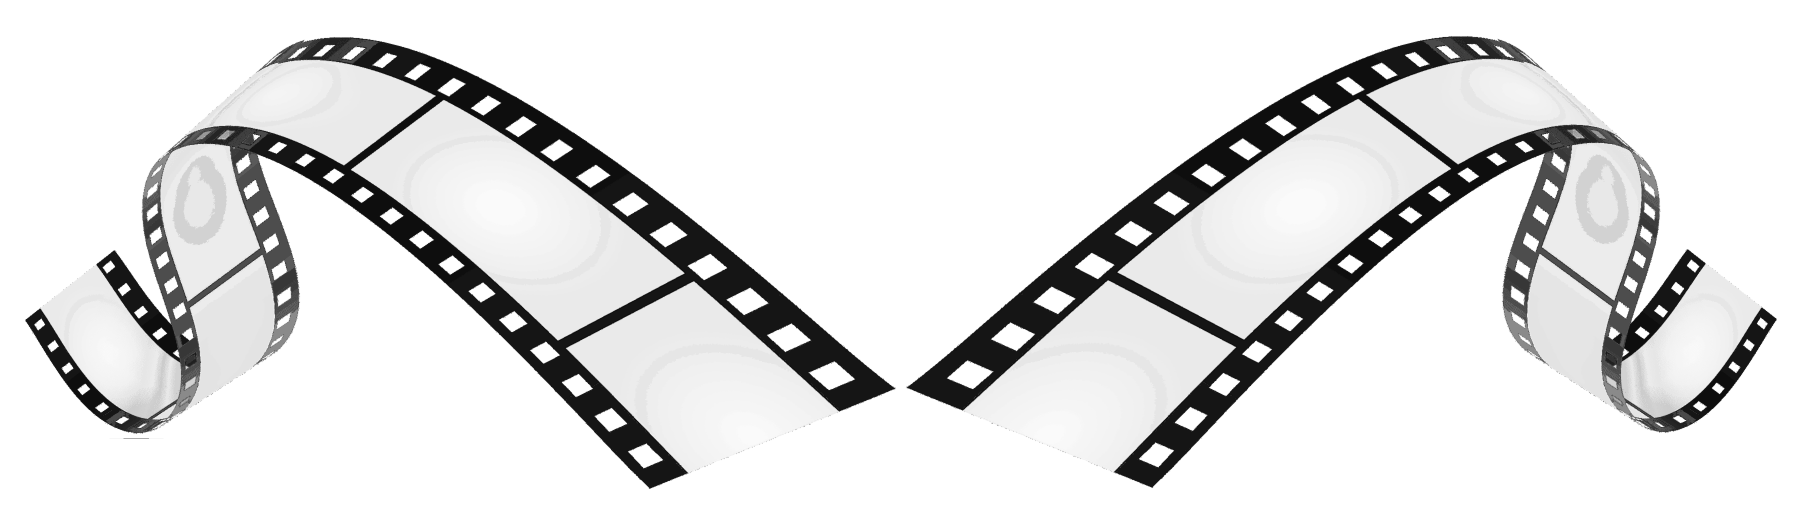
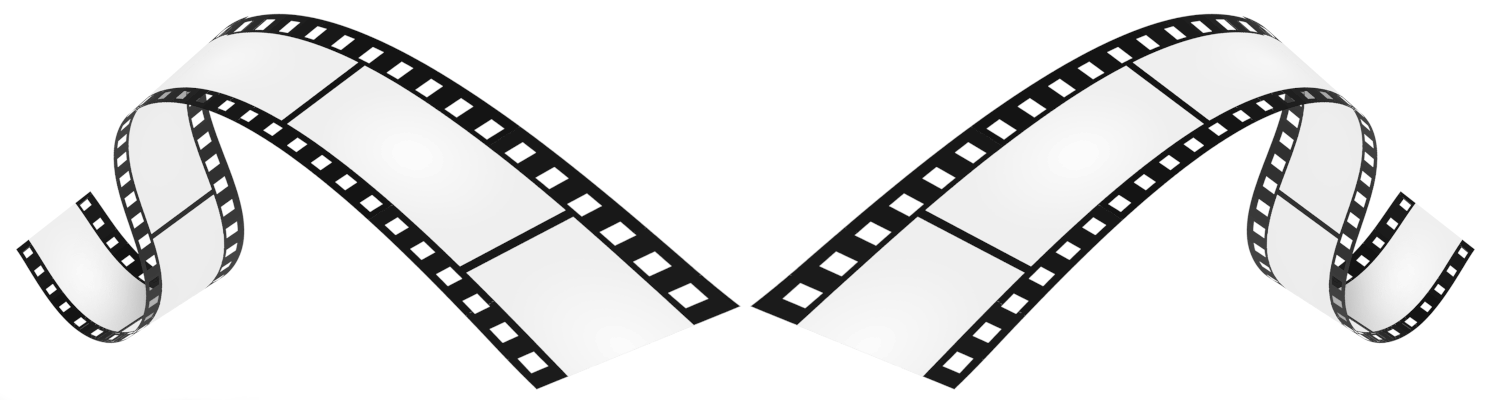
fix: Use local version

diff --git a/src/pages/Home.tsx b/src/pages/Home.tsx
@@ -42,7 +42,7 @@ const Home = () => {
         </button>
       </div>
       <img
-        src="https://res.cloudinary.com/dfh81vhxi/image/upload/f_webp/q_auto:best/cs_tinysrgb/dpr_auto/film-strips_ou4kft.png"
+        src="/film-strips.png"
         alt="Film strips in the background"
         className="z-[-1] max-w-4/5 justify-self-center mt-4" />
     </>